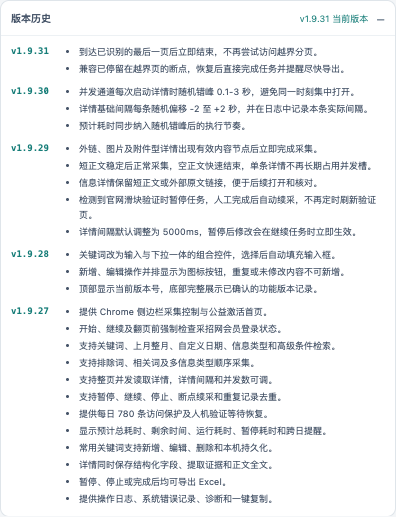
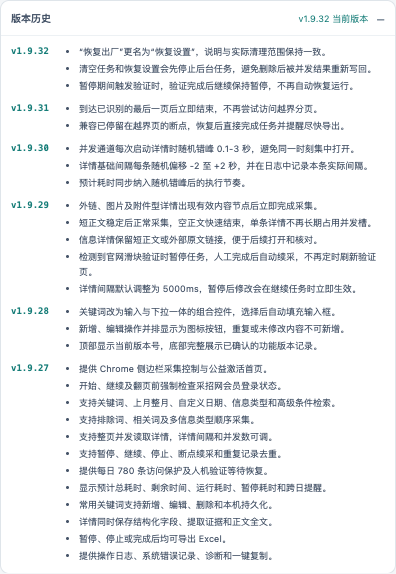
fix: v1.9.32 修复任务清理与验证状态

diff --git a/background.js b/background.js
@@ -326,6 +326,7 @@ async function startSilentSearch(keyword, rawSettings = {}) {
     timeFilterMode: settings.timeFilterMode, timeRangeStart: timeRange.start, timeRangeEnd: timeRange.end,
     timeFilterApplied: false, listUrl: url, awaitingSignature: '', error: '',
     verificationUntil: 0, verificationMode: '', verificationRiskType: '', verificationTabIds: [], verificationUrl: '',
+    verificationResumeStatus: '',
     advancedFilters: settings.advancedFilters, excludeWords: settings.excludeWords,
     relatedWords: settings.relatedWords, advancedFiltersApplied: false,
     startedAt: new Date().toISOString(), pausedAt: '', totalPausedMs: 0, endedAt: '',
@@ -392,9 +393,12 @@ function waitForDetail(tabId, url, title) {
   });
 }
 
-async function openSilentDetail(url, title) {
+async function openSilentDetail(url, title, expectedGeneration) {
   const { task = {} } = await chrome.storage.local.get('task');
+  if (expectedGeneration !== batchGeneration || !['searching', 'filtering', 'running'].includes(task.status)) return null;
   const listTab = task.listTabId ? await chrome.tabs.get(task.listTabId).catch(() => null) : null;
+  const latest = await taskState();
+  if (expectedGeneration !== batchGeneration || !['searching', 'filtering', 'running'].includes(latest.status)) return null;
   const createProperties = { url, active: false };
   if (listTab && /(^|\.)bidcenter\.com\.cn$/i.test(new URL(listTab.url || '').hostname)) {
     createProperties.openerTabId = listTab.id;
@@ -420,9 +424,12 @@ async function clearVerification(tabId) {
     return;
   }
   if (current.status === 'verification_wait') {
+    const resumeStatus = ['paused', 'daily_limit'].includes(current.verificationResumeStatus)
+      ? current.verificationResumeStatus : 'running';
+    const timingPatch = resumeStatus === 'running' ? resumedTimingPatch(current) : {};
     await saveTask({
-      status: 'running', verificationUntil: 0, verificationMode: '', verificationRiskType: '',
-      verificationTabIds: [], verificationUrl: '', error: '', ...resumedTimingPatch(current)
+      status: resumeStatus, verificationUntil: 0, verificationMode: '', verificationRiskType: '',
+      verificationTabIds: [], verificationUrl: '', verificationResumeStatus: '', error: '', ...timingPatch
     });
   }
   await chrome.action.setBadgeText({ text: '' });
@@ -444,8 +451,9 @@ async function finishDetail(tabId, record, error) {
   pending.resolve(record);
 }
 
-function updateBatchProgress(failed) {
+function updateBatchProgress(failed, expectedGeneration) {
   progressQueue = progressQueue.then(async () => {
+    if (expectedGeneration !== batchGeneration) return;
     const current = await taskState();
     await saveTask({
       batchDone: (current.batchDone || 0) + 1,
@@ -497,7 +505,7 @@ async function runDetailBatch(entries) {
         ? `基础间隔 ${intervalTiming.baseMs}ms，随机偏移 ${jitterLabel}ms，实际 ${intervalTiming.actualMs}ms；`
         : '本通道首条无需前序间隔；';
       await log('info', `并发通道 ${workerId} 错峰启动详情`, `${intervalLabel}启动错峰 ${staggerMs}ms；活动详情 ${activeDetailTabs.size + 1}/${Math.min(settings.concurrency, entries.length)}`);
-      const opened = await openSilentDetail(entry.url, entry.title);
+      const opened = await openSilentDetail(entry.url, entry.title, generation);
       return opened;
     } finally {
       releaseLaunch();
@@ -546,13 +554,15 @@ async function runDetailBatch(entries) {
         if (!opened) return;
         workerLastOpenAt.set(workerId, opened.openedAt);
         const record = await opened.result;
-        await updateBatchProgress(false);
+        if (generation !== batchGeneration) return;
+        await updateBatchProgress(false, generation);
         results[index] = { url: entry.url, summary: entry.summary, record };
-        await persistPartialResult(results[index]);
+        await persistPartialResult(results[index], generation);
       } catch (error) {
-        await updateBatchProgress(true);
+        if (generation !== batchGeneration) return;
+        await updateBatchProgress(true, generation);
         results[index] = { url: entry.url, summary: entry.summary, error: error.message || '详情采集失败。' };
-        await persistPartialResult(results[index]);
+        await persistPartialResult(results[index], generation);
       }
     }
   }
@@ -567,8 +577,9 @@ async function runDetailBatch(entries) {
   return completedResults;
 }
 
-async function persistPartialResult(result) {
+async function persistPartialResult(result, expectedGeneration) {
   partialQueue = partialQueue.then(async () => {
+    if (expectedGeneration !== batchGeneration) return;
     const current = await taskState();
     const partial = [...(current.partialRecords || [])];
     const key = result.url || result.record?.网址;
@@ -600,7 +611,8 @@ async function stopTask() {
   const timingPatch = resumedTimingPatch(current, timestamp(endedAt));
   const finalState = await saveTask({
     status: 'stopped', error: '', verificationUntil: 0, verificationMode: '',
-    verificationRiskType: '', verificationTabIds: [], verificationUrl: '', ...timingPatch, endedAt
+    verificationRiskType: '', verificationTabIds: [], verificationUrl: '', verificationResumeStatus: '',
+    ...timingPatch, endedAt
   });
   const timing = taskTiming(finalState);
   await chrome.action.setBadgeText({ text: '' });
@@ -711,10 +723,14 @@ chrome.runtime.onMessage.addListener((message, sender, sendResponse) => {
         ...(Array.isArray(current.verificationTabIds) ? current.verificationTabIds : []),
         ...verificationTabs
       ])];
+      const verificationResumeStatus = current.status === 'verification_wait'
+        ? current.verificationResumeStatus
+        : ['paused', 'daily_limit'].includes(current.status) ? current.status : 'running';
       await saveTask({
         status: 'verification_wait', verificationUntil,
         verificationMode: manual ? 'manual' : 'cooldown', verificationRiskType: riskType,
         verificationTabIds, verificationUrl: message.url || sender.tab?.url || '', error: '',
+        verificationResumeStatus,
         pausedAt: current.pausedAt || new Date().toISOString()
       });
       await chrome.action.setBadgeBackgroundColor({ color: '#b54708' });
@@ -761,6 +777,16 @@ chrome.runtime.onMessage.addListener((message, sender, sendResponse) => {
     stopTask().then(() => sendResponse({ ok: true }));
     return true;
   }
+  if (message.type === 'CLEAR_TASK') {
+    (async () => {
+      await stopTask();
+      await Promise.allSettled([progressQueue, partialQueue]);
+      await chrome.storage.local.remove(['task', 'taskLogs']);
+      await chrome.action.setBadgeText({ text: '' });
+      sendResponse({ ok: true });
+    })().catch((error) => sendResponse({ error: error.message }));
+    return true;
+  }
   if (message.type === 'RESUME_SILENT') {
     requireActivation()
       .then(() => resumeTask(message.intervalMs))
@@ -788,10 +814,10 @@ chrome.runtime.onMessage.addListener((message, sender, sendResponse) => {
     })().catch(() => undefined);
     return undefined;
   }
-  if (message.type === 'RESET_FACTORY') {
+  if (message.type === 'RESET_SETTINGS') {
     (async () => {
       await stopTask();
-      await sleep(50);
+      await Promise.allSettled([progressQueue, partialQueue]);
       await chrome.storage.local.remove([
         'task', 'taskLogs', 'collectorSettings', 'systemErrors',
         'officialAdvancedFilterOptions', 'keywordOptions', 'intervalDefault5000Migrated', ACTIVATION_STORAGE_KEY

diff --git a/sidepanel.html b/sidepanel.html
@@ -13,7 +13,7 @@
           <img class="activation-logo" src="logo.svg" alt="采招网采集助手 logo">
           <div>
             <div class="brand-kicker">BIDCENTER / COLLECTOR</div>
-            <strong class="brand-title">采招网采集助手 <span class="version-badge" data-app-version>v1.9.31</span></strong>
+            <strong class="brand-title">采招网采集助手 <span class="version-badge" data-app-version>v1.9.32</span></strong>
           </div>
         </header>
 
@@ -55,7 +55,7 @@
         <img class="brand-logo" src="logo.svg" alt="采招网采集助手 logo">
         <div class="brand-copy">
           <div class="brand-kicker">BIDCENTER / COLLECTOR</div>
-          <h1 class="brand-title">采招网采集助手 <span class="version-badge" data-app-version>v1.9.31</span></h1>
+          <h1 class="brand-title">采招网采集助手 <span class="version-badge" data-app-version>v1.9.32</span></h1>
         </div>
         <span id="status-dot" class="status-dot" aria-label="任务状态" title="任务状态"></span>
       </header>
@@ -169,7 +169,7 @@
           <button id="export" class="export">导出 Excel</button>
           <button id="diagnose" class="utility-button">诊断任务</button>
           <button id="clear" class="utility-button clear-task">清空任务</button>
-          <button id="factory-reset" class="utility-button factory-reset" title="恢复出厂设置（保留今日访问计数）">恢复出厂</button>
+          <button id="reset-settings" class="utility-button reset-settings" title="恢复设置（保留今日访问计数）">恢复设置</button>
         </div>
       </section>
 
@@ -204,8 +204,16 @@
       </section>
 
       <details class="version-history">
-        <summary><span>版本历史</span><small>v1.9.31 当前版本</small></summary>
+        <summary><span>版本历史</span><small>v1.9.32 当前版本</small></summary>
         <div class="version-history-list">
+          <article>
+            <strong>v1.9.32</strong>
+            <ul>
+              <li>“恢复出厂”更名为“恢复设置”，说明与实际清理范围保持一致。</li>
+              <li>清空任务和恢复设置会先停止后台任务，避免删除后被并发结果重新写回。</li>
+              <li>暂停期间触发验证时，验证完成后继续保持暂停，不再自动恢复运行。</li>
+            </ul>
+          </article>
           <article>
             <strong>v1.9.31</strong>
             <ul>

diff --git a/sidepanel.js b/sidepanel.js
@@ -766,15 +766,19 @@ $('#export').addEventListener('click', async () => {
   if (records.length) downloadWorkbook(records);
 });
 $('#clear').addEventListener('click', async () => {
-  await chrome.storage.local.remove(['task', 'taskLogs']);
+  const response = await chrome.runtime.sendMessage({ type: 'CLEAR_TASK' });
+  if (response?.error) {
+    await reportSidepanelError(new Error(response.error), '清空任务', false);
+    return;
+  }
   render({ status: 'idle' }, [], latestSystemErrors, latestQuota);
 });
-$('#factory-reset').addEventListener('click', async () => {
-  const confirmed = confirm('恢复出厂设置将清除激活状态、任务、采集结果、日志、自定义关键词和所有用户设置。\n\n今日访问计数会保留，以防超过平台每日访问上限。确定继续吗？');
+$('#reset-settings').addEventListener('click', async () => {
+  const confirmed = confirm('恢复设置将清除激活状态、任务、采集结果、日志、自定义关键词和所有用户设置。\n\n今日访问计数会保留，以防超过平台每日访问上限。确定继续吗？');
   if (!confirmed) return;
-  const response = await chrome.runtime.sendMessage({ type: 'RESET_FACTORY' });
+  const response = await chrome.runtime.sendMessage({ type: 'RESET_SETTINGS' });
   if (response?.error) {
-    await reportSidepanelError(new Error(response.error), '恢复出厂设置', false);
+    await reportSidepanelError(new Error(response.error), '恢复设置', false);
     return;
   }
   location.reload();

diff --git a/sidepanel.css b/sidepanel.css
@@ -199,8 +199,8 @@ input:focus, select:focus { border-color: #71aaa6; outline: none; box-shadow: 0 
 .utility-button { padding: 0 7px; color: var(--text-2); }
 .clear-task { color: var(--danger); }
 .clear-task:hover:not(:disabled) { border-color: #efb7b3; background: var(--danger-soft); }
-.factory-reset { color: #9a5b13; }
-.factory-reset:hover:not(:disabled) { border-color: #e6c58f; background: #fff8e8; }
+.reset-settings { color: #9a5b13; }
+.reset-settings:hover:not(:disabled) { border-color: #e6c58f; background: #fff8e8; }
 .console-panel { overflow: hidden; border-color: #1e293b; background: #111c2d; }
 .panel-heading { display: flex; min-width: 0; align-items: center; justify-content: space-between; gap: 6px; height: 35px; padding: 5px 8px 5px 10px; border-bottom: 1px solid #263449; color: #e2e8f0; }
 .panel-heading > div:first-child { min-width: 0; }

diff --git a/README.md b/README.md
@@ -128,7 +128,7 @@ Excel 保留常用招投标字段，并尽量提取：
 - 采集结果、任务断点、关键词、设置和日志保存在用户本机 Chrome 扩展存储中。
 - 插件只声明运行所需的 `storage`、`tabs`、`downloads`、`scripting`、`alarms`、`sidePanel` 和目标网站访问权限。
 - 插件不上传采集结果，不包含远程分析服务，也不读取用户在其他网站的数据。
-- 点击“清空任务”会移除任务与结果；“恢复出厂”会清除激活状态、任务、日志、关键词和设置，但保留当日访问计数。
+- 点击“清空任务”会先停止后台采集，再移除任务与结果；“恢复设置”会清除激活状态、任务、日志、关键词和设置，但保留当日访问计数。
 - “今日访问”在创建详情页前计数，即使加载失败也会保守计入，避免并发任务突破保护线。
 
 ## 访问限制与风险控制
@@ -160,6 +160,12 @@ docs/screenshots/      GitHub 产品截图
 - 仓库不包含采招网官方会员导出模板、用户采集数据、账号 Cookie、Token 或其他个人凭据。
 
 ## 更新记录
+
+### 2026-08-15 · v1.9.32
+
+- “恢复出厂”更名为“恢复设置”，名称与实际清理范围保持一致。
+- 清空任务和恢复设置会先停止后台任务并排空写入队列，避免删除后被并发详情结果重新写回。
+- 暂停期间触发验证时，验证完成后继续保持暂停，不再违背用户操作自动恢复运行。
 
 ### 2026-08-14 · v1.9.31
 
